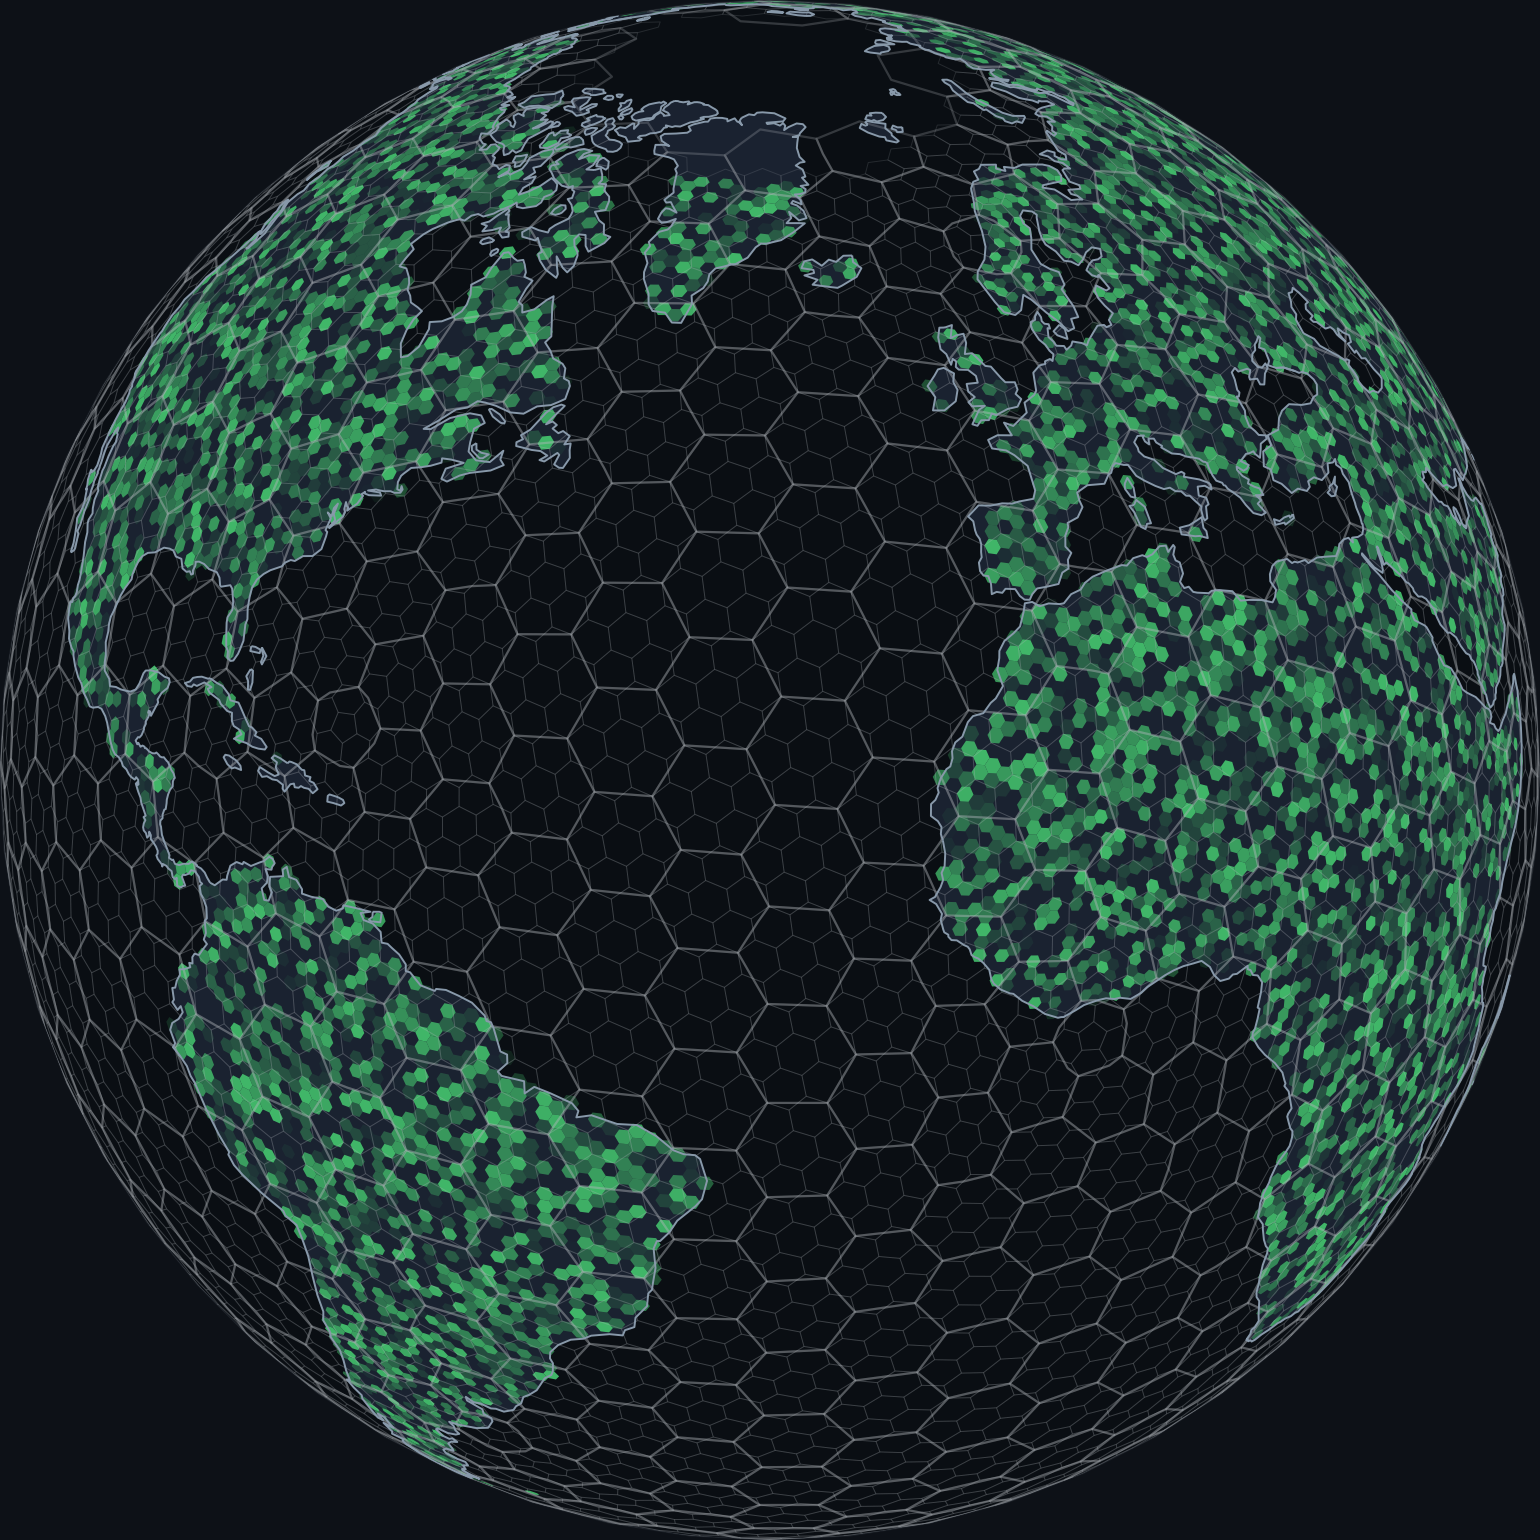
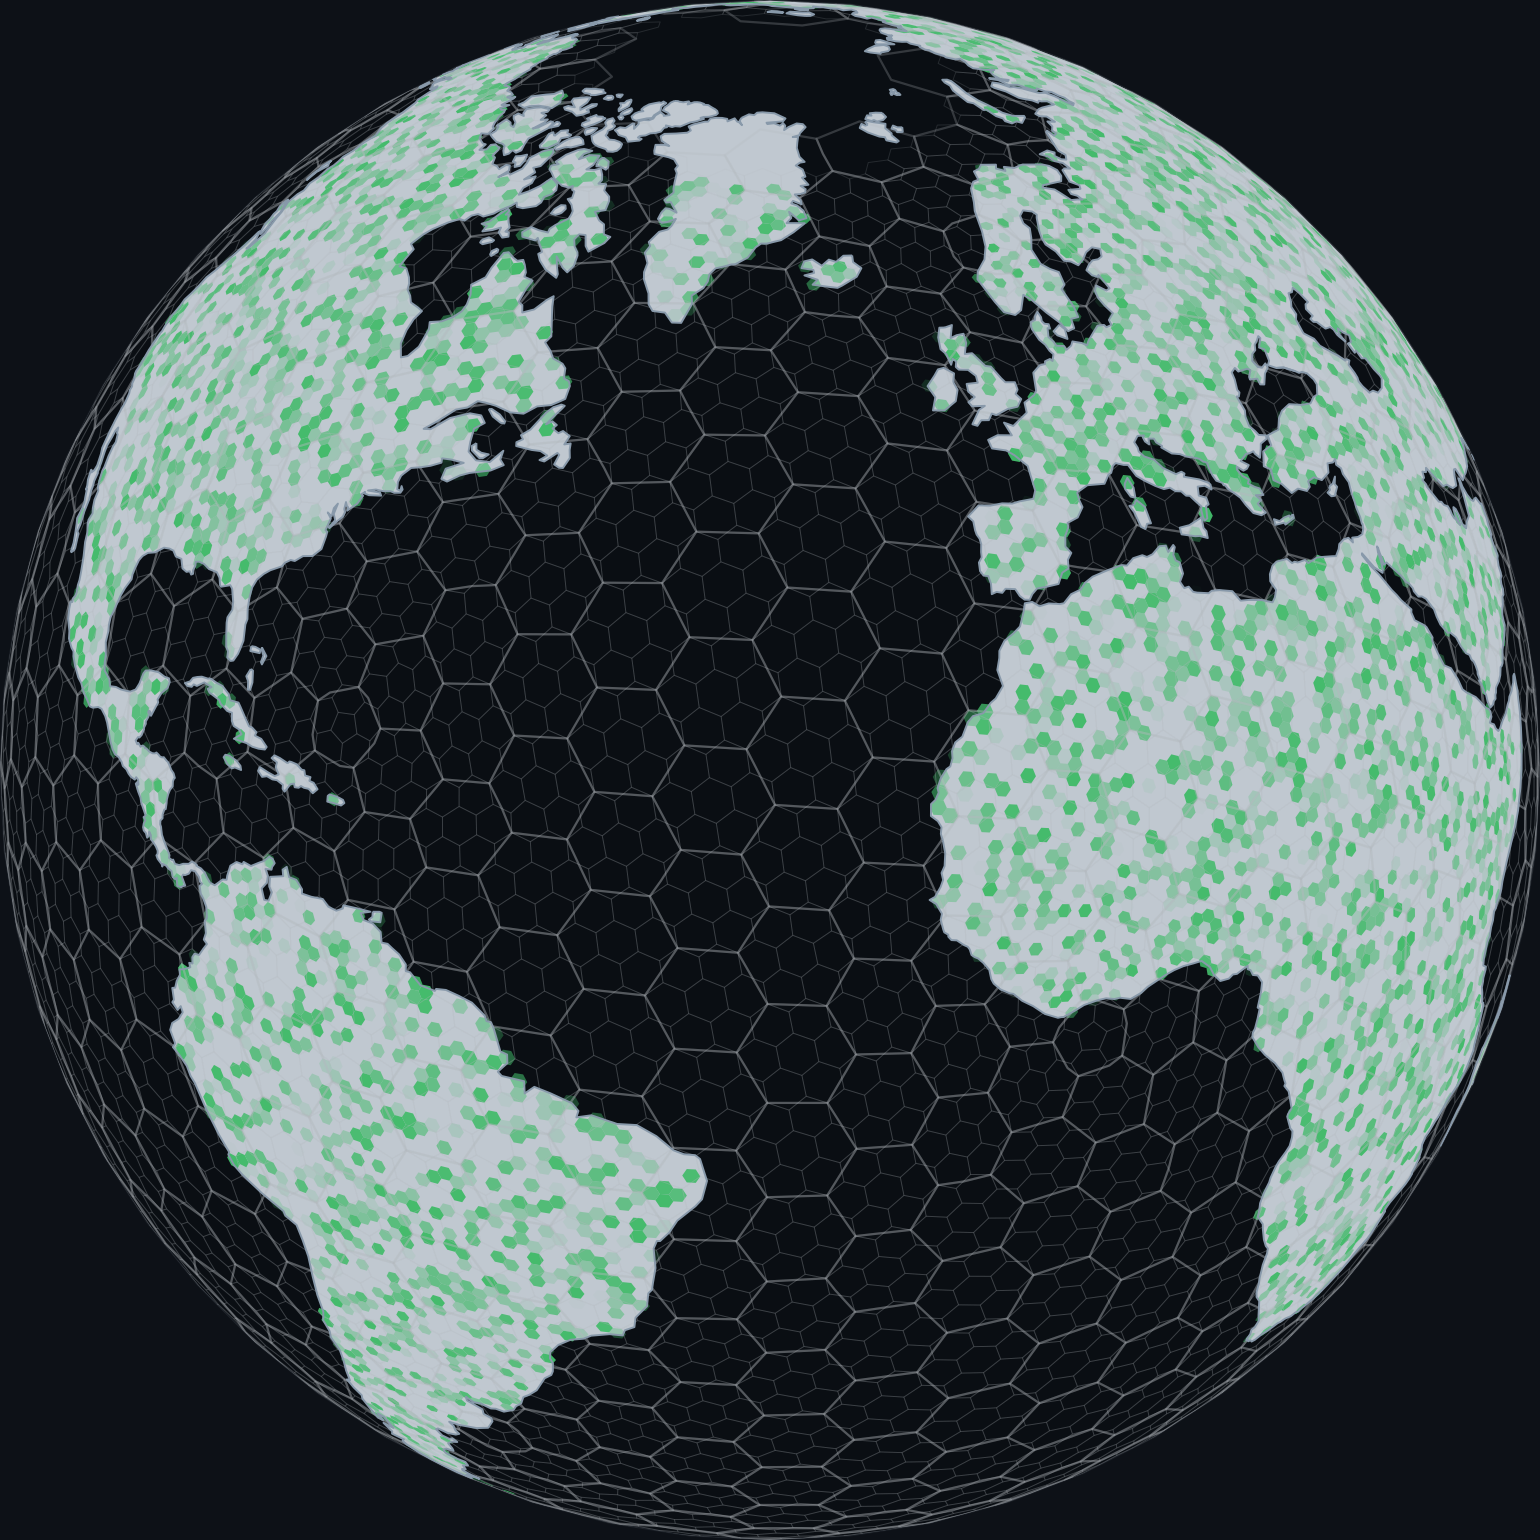
H3 globe: near-white land color, 50% transparent hexes

diff --git a/scripts/h3_globe.py b/scripts/h3_globe.py
@@ -19,7 +19,7 @@ from shapely.prepared import prep
 from pathlib import Path
 
 BG_COLOR = '#0d1117'
-LAND_COLOR = '#1a2230'   # noticeably lighter than ocean
+LAND_COLOR = '#c0c8d0'   # near-white gray
 OCEAN_COLOR = '#0a0e13'
 OUTPUT_DIR = Path(__file__).parent.parent / 'book' / 'assets' / 'figures'
 
@@ -106,7 +106,7 @@ def generate_globe():
         xy = cell_to_xy(cell)
         if xy is None:
             continue
-        if np.random.random() < 0.33:
+        if np.random.random() < 0.50:
             continue  # 33% stay transparent
         opacity = np.random.uniform(0.0, 1.0)
         if opacity < 0.03:
